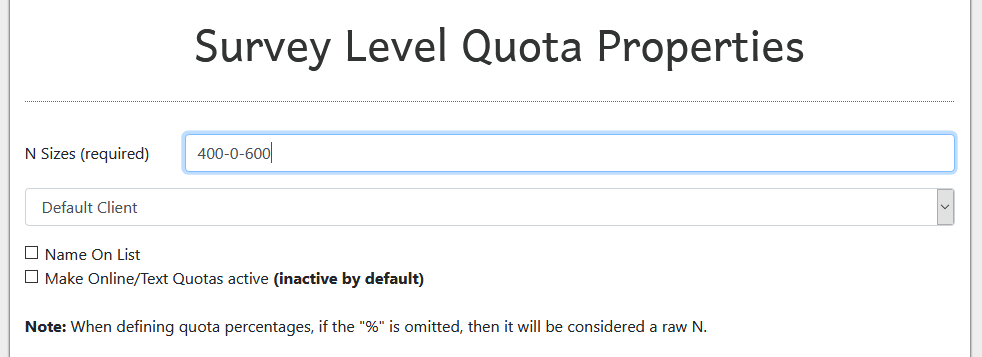
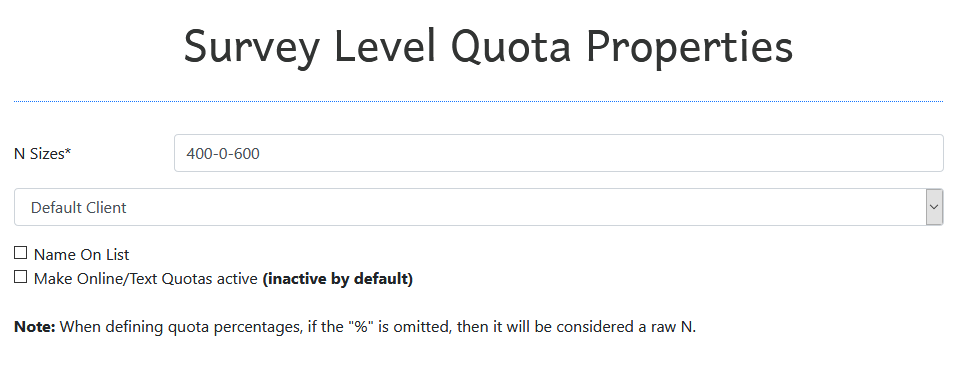
Clarified something about full N-size

Changed region(s): [[0.0, 0.0, 0.728, 1.0], [0.182, 0.0, 1.0, 1.0], [0.182, 0.0616, 0.8494, 0.2157]]

diff --git a/docs.html b/docs.html
@@ -239,9 +239,9 @@
               <div>After you process a sample, Bubbleless can take that data and arrange it into quotas for use on LS.<br />If you scroll down through the data visualizations, you'll end up at the Survey Level Quota Properties section.</div>
               <img src="imgs/quota_mode_nsize.PNG" class="img-fluid" alt="The survey level quota properties section with a value of 400-0-600 being entered into the N Sizes field.">
               <div>The N Sizes value is required. This is used to calculate raw n-sizes out of the percentages for the quotas.</div>
-              <div>The format for the n size entry field is a raw number for each mode separated by a dash: <span class="syntax">Phone-Email-Text</span></div>
-              <div>Irrelevant modes should be 0. The image above describes a project of <u>1000n</u> with a phone mode of <u>400n</u> and a texting mode of <u>600n</u>.
-              <div class="aside">Note: Keep in mind whether the projects will be on the same link or not. In the above example, if the project were separated into two surveys, the generated csv would be incorrect.</div></div>
+              <div><i>If there is only one mode, you only need to enter one number, regardless of mode.</i> The format if there are multiple modes is a raw number for each mode separated by a dash: <span class="syntax">Phone-Email-Text</span></div>
+              <div>In this case, irrelevant modes should be 0. The image above describes a project of <u>1000n</u> with a phone mode of n=<u>400</u> and a texting mode of n=<u>600</u>.</div>
+              <div class="aside">Note: Keep in mind whether the projects will be on the same link or not. In the above example, if the project were separated into two surveys, the generated csv would be incorrect. You would need to generate two quota files in this case, one for each mode; with corresponding n-sizes.</div>
               <div>Everything else should be set according to the project specifications, usually on Trello.</div>
             </div>
             <br>
